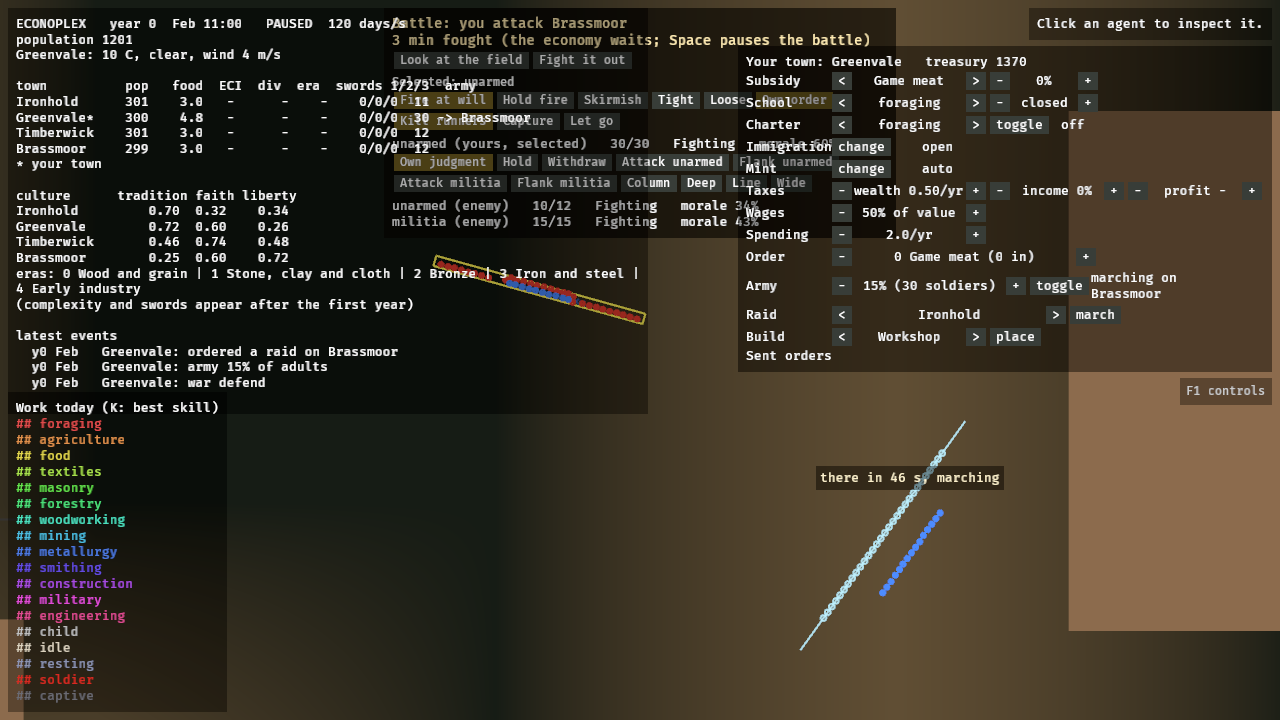
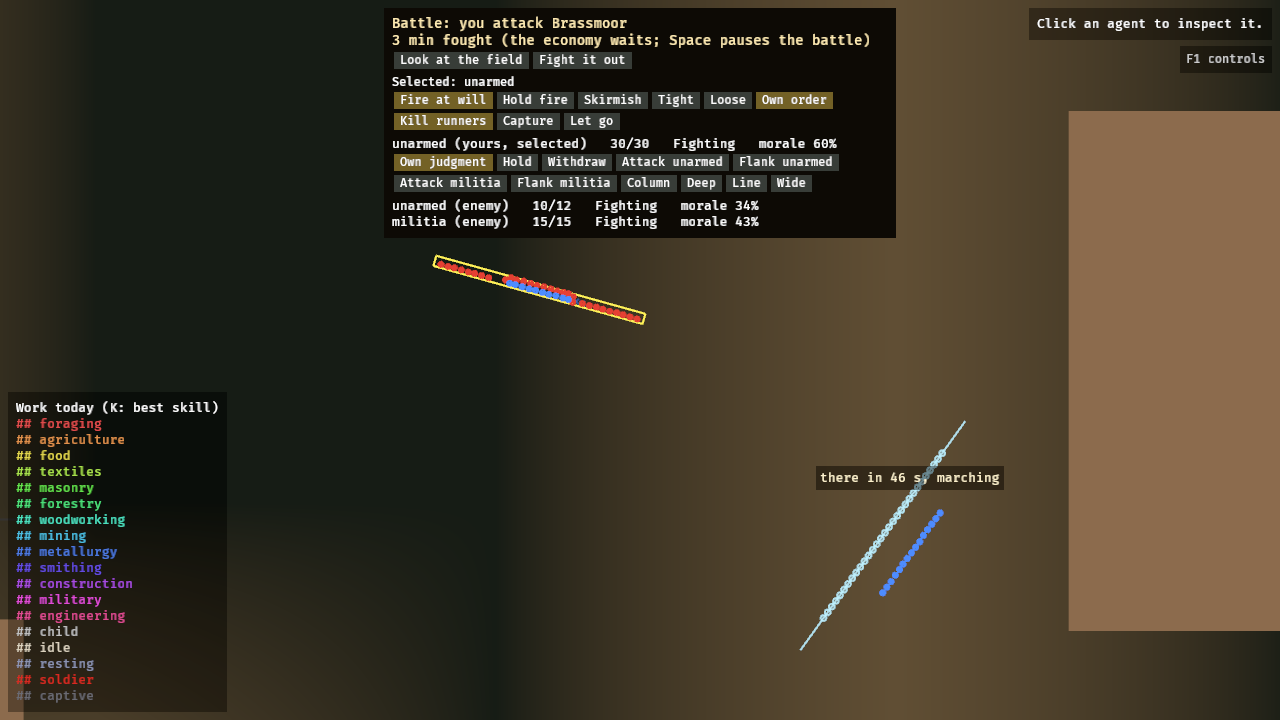
2D battle panel stands alone; overlay discs and legend
While a live battle waits, the 2D client hides the summary, economy and
policy panels; the economy is paused then anyway. The battle panel gets
an opaque background and draws on top, so nothing overlaps it at
1280x720.

The overlay draws each soldier as a larger disc, at least a few pixels
wide. A legend for the overlay colours now sits at the foot of the screen
in both clients.

The 2D screenshots and the 3D overlay screenshot are retaken.

Claude-Session: https://claude.ai/code/session_013bTopQ7tnjs5Etqsq4FhMp

diff --git a/crates/game/src/battle_input.rs b/crates/game/src/battle_input.rs
@@ -265,8 +265,10 @@ pub fn draw_battle_controls(
                 .resolution(6);
         }
     }
-    // The overlay: each soldier on their feet in the colour of their morale,
-    // darker the more tired.
+    // The overlay: each soldier on their feet a disc in the colour of their
+    // morale, darker the more tired, at least a few pixels wide.
+    let px = camera.1.compute_transform().scale.x;
+    let disc = (1.1 * r).max(3.5 * px);
     if controls.overlay && v.on_soldiers() {
         for (men, cond) in v.frame.soldiers.iter().zip(&v.condition) {
             for (m, c) in men.iter().zip(cond) {
@@ -279,23 +281,76 @@ pub fn draw_battle_controls(
                 }
                 let [r_, g_, b_] = rts::condition_colour(*c);
                 let p = at(m.pos());
-                gizmos
-                    .circle_2d(
-                        Isometry2d::from_translation(p),
-                        0.55 * r,
-                        Color::linear_rgb(r_, g_, b_),
-                    )
-                    .resolution(5);
-                gizmos
-                    .circle_2d(
-                        Isometry2d::from_translation(p),
-                        0.3 * r,
-                        Color::linear_rgb(r_, g_, b_),
-                    )
-                    .resolution(4);
+                // Rings close together, to read as a filled disc.
+                for k in 1..=4 {
+                    gizmos
+                        .circle_2d(
+                            Isometry2d::from_translation(p),
+                            disc * k as f32 / 4.0,
+                            Color::linear_rgb(r_, g_, b_),
+                        )
+                        .resolution(8);
+                }
             }
         }
     }
+}
+
+/// What the overlay's colours mean, at the foot of the screen while it is on.
+#[derive(Component)]
+pub struct OverlayLegend;
+
+pub fn spawn_overlay_legend(mut commands: Commands) {
+    let font = TextFont {
+        font_size: FontSize::Px(13.0),
+        ..default()
+    };
+    let rgb = |m: f32, f: f32| {
+        let [r, g, b] = rts::condition_colour(sim_core::battle::Condition::new(m, f));
+        TextColor(Color::linear_rgb(r, g, b))
+    };
+    commands
+        .spawn((
+            Node {
+                position_type: PositionType::Absolute,
+                bottom: Val::Px(8.0),
+                left: Val::Percent(30.0),
+                padding: UiRect::axes(Val::Px(8.0), Val::Px(4.0)),
+                column_gap: Val::Px(10.0),
+                flex_direction: FlexDirection::Row,
+                ..default()
+            },
+            BackgroundColor(Color::srgb(0.05, 0.04, 0.02)),
+            GlobalZIndex(10),
+            Visibility::Hidden,
+            bevy::picking::Pickable::IGNORE,
+            OverlayLegend,
+        ))
+        .with_children(|p| {
+            p.spawn((Text::new("Overlay (O):"), font.clone()));
+            p.spawn((Text::new("## breaking"), font.clone(), rgb(0.05, 0.0)));
+            p.spawn((Text::new("## wavering"), font.clone(), rgb(0.5, 0.0)));
+            p.spawn((Text::new("## steady"), font.clone(), rgb(1.0, 0.0)));
+            p.spawn((
+                Text::new("## steady, worn out"),
+                font.clone(),
+                rgb(1.0, 1.0),
+            ));
+        });
+}
+
+/// Shows the legend while the overlay is on in a live battle.
+pub fn update_overlay_legend(
+    live: Res<LiveBattle>,
+    controls: Res<BattleControls>,
+    mut legend: Single<&mut Visibility, With<OverlayLegend>>,
+) {
+    let on = controls.overlay && live.view.as_ref().is_some_and(|v| v.on_soldiers());
+    legend.set_if_neq(if on {
+        Visibility::Inherited
+    } else {
+        Visibility::Hidden
+    });
 }
 
 /// The text by the pointer: the matchup hint, or the ghost's arrival time.

diff --git a/crates/game3d/src/battle_input.rs b/crates/game3d/src/battle_input.rs
@@ -335,6 +335,9 @@ fn draw_battle_controls(
 fn controls_tip(mut contexts: EguiContexts, live: Res<LiveSim>, controls: Res<BattleControls>) {
     let Some(v) = live.live_battle() else { return };
     let Ok(ctx) = contexts.ctx_mut() else { return };
+    if controls.overlay && v.on_soldiers() {
+        overlay_legend(ctx);
+    }
     let (gesture, ghosts) = ghost_of(&v, &controls);
     if let Gesture::Box(a, b) = gesture {
         let rect = egui::Rect::from_two_pos(egui::pos2(a.0, a.1), egui::pos2(b.0, b.1));
@@ -368,6 +371,38 @@ fn controls_tip(mut contexts: EguiContexts, live: Res<LiveSim>, controls: Res<Ba
         .show(ctx, |ui| {
             egui::Frame::popup(ui.style()).show(ui, |ui| {
                 ui.label(words);
+            });
+        });
+}
+
+/// What the overlay's colours mean, at the foot of the screen.
+fn overlay_legend(ctx: &egui::Context) {
+    let colour = |m: f32, f: f32| {
+        let [r, g, b] = rts::condition_colour(sim_core::battle::Condition::new(m, f));
+        let c = Color::linear_rgb(r, g, b).to_srgba();
+        egui::Color32::from_rgb(
+            (c.red * 255.0) as u8,
+            (c.green * 255.0) as u8,
+            (c.blue * 255.0) as u8,
+        )
+    };
+    egui::Area::new(egui::Id::new("overlay legend"))
+        .anchor(egui::Align2::CENTER_BOTTOM, egui::vec2(0.0, -8.0))
+        .order(egui::Order::Foreground)
+        .interactable(false)
+        .show(ctx, |ui| {
+            egui::Frame::popup(ui.style()).show(ui, |ui| {
+                ui.horizontal(|ui| {
+                    ui.label("Overlay (O):");
+                    for (words, m, f) in [
+                        ("## breaking", 0.05, 0.0),
+                        ("## wavering", 0.5, 0.0),
+                        ("## steady", 1.0, 0.0),
+                        ("## steady, worn out", 1.0, 1.0),
+                    ] {
+                        ui.colored_label(colour(m, f), words);
+                    }
+                });
             });
         });
 }

diff --git a/crates/game/src/live_battle.rs b/crates/game/src/live_battle.rs
@@ -27,7 +27,9 @@
 //! once. Under the title, the squads selected with the mouse
 //! (battle_input.rs) and buttons for their stance: fire at will, hold fire
 //! or skirmish; tight, loose or their own order; and whether they kill,
-//! capture or let go enemies who run.
+//! capture or let go enemies who run. While the battle waits, the summary,
+//! economy and policy panels fold away (`fold_panels`), so nothing lies under
+//! the battle panel.
 
 use crate::battle_input::BattleControls;
 use crate::ui_compat::Interaction;
@@ -245,7 +247,8 @@ pub fn spawn_battle_panel(mut commands: Commands) {
                 padding: UiRect::all(Val::Px(8.0)),
                 ..default()
             },
-            BackgroundColor(Color::srgba(0.05, 0.04, 0.02, 0.85)),
+            BackgroundColor(Color::srgb(0.05, 0.04, 0.02)),
+            GlobalZIndex(10),
             Visibility::Hidden,
             BattleRoot,
         ))
@@ -280,6 +283,25 @@ pub fn spawn_battle_panel(mut commands: Commands) {
                 SquadRows,
             ));
         });
+}
+
+/// While a battle waits, the summary, economy and policy panels fold away
+/// (`hud::FoldsInBattle`), so nothing is drawn under the battle panel; they
+/// come back when it is settled.
+pub fn fold_panels(
+    live: Res<LiveBattle>,
+    mut panels: Query<&mut Node, With<crate::hud::FoldsInBattle>>,
+) {
+    let display = if live.view.is_some() {
+        Display::None
+    } else {
+        Display::Flex
+    };
+    for mut n in &mut panels {
+        if n.display != display {
+            n.display = display;
+        }
+    }
 }
 
 /// Enemy squads still on the field (targets for attack and shoot orders).

diff --git a/crates/game/src/main.rs b/crates/game/src/main.rs
@@ -196,6 +196,7 @@ fn main() {
                 seasons::spawn_night_veil,
                 live_battle::spawn_battle_panel,
                 battle_input::spawn_controls_tip,
+                battle_input::spawn_overlay_legend,
             ),
         )
         .add_systems(
@@ -265,6 +266,8 @@ fn main() {
                 live_battle::draw_live_battle,
                 battle_input::draw_battle_controls.after(live_battle::draw_live_battle),
                 battle_input::update_controls_tip,
+                battle_input::update_overlay_legend,
+                live_battle::fold_panels,
                 live_battle::battle_buttons,
                 live_battle::update_battle_panel.after(live_battle::battle_buttons),
             ),

diff --git a/crates/game/src/hud.rs b/crates/game/src/hud.rs
@@ -25,6 +25,12 @@ pub struct LeftColumn;
 #[derive(Component)]
 pub struct RightColumn;
 
+/// Panels folded away while a live battle waits (the economy holds still
+/// then): the left-hand column and the policy panel, so the battle panel
+/// has the top of the screen to itself (live_battle.rs `fold_panels`).
+#[derive(Component)]
+pub struct FoldsInBattle;
+
 /// The controls help, one line until `F1` opens it.
 #[derive(Component)]
 pub struct HelpText;
@@ -85,6 +91,7 @@ pub fn spawn_hud(mut commands: Commands, db: Res<Db>) {
                 ..default()
             },
             LeftColumn,
+            FoldsInBattle,
         ))
         .with_children(|c| {
             c.spawn((

diff --git a/crates/game/src/policy_ui.rs b/crates/game/src/policy_ui.rs
@@ -206,6 +206,7 @@ pub fn spawn_policy_panel(
                 ..default()
             },
             BackgroundColor(Color::srgba(0.0, 0.0, 0.0, 0.7)),
+            crate::hud::FoldsInBattle,
         ))
         .with_children(|p| {
             p.spawn((Text::new(""), font.clone(), Field::Title));

diff --git a/docs/design/client-parity.md b/docs/design/client-parity.md
@@ -86,7 +86,7 @@ the end of this note).
 | Squad orders in a live battle (own judgment, hold, withdraw, or attack or shoot at a named enemy squad), fighters left, squad state, "Look at the field", "Fight it out" | battles.rs (`battle_panel`) | same (group 4): a battle panel at the top, one row per squad with its fighters left, state and morale, and order buttons for the player's fighting squads | | |
 | Live battles on the soldier model (`battle.live_model`): each figure stands where its soldier stands, faces their way, lies where they fell, greys when they run | battles.rs (`pose_soldiers`) | same: zoomed in (`SOLDIERS_BELOW`), every soldier is a dot where they stand, the fallen a small cross, runners grey and blinking; zoomed out, a block per squad at its soldiers' centre (live_battle.rs, battles.rs `draw_soldiers`) | | |
 | On the soldier model, the battle panel also offers "Flank" a named enemy squad (`LiveView::flank`: moves round its side, then attack) and four fronts to re-form to where it stands (column, deep, line, wide: `LiveView::reform`); hidden on the squad model | battles.rs (`battle_panel`) | same: the same buttons in each squad's row (live_battle.rs `choices`, `chosen`) | | |
-| RTS battle controls, build A: click, shift-click and box selection, control groups (Ctrl+1–9, 1–9, twice to look), right-click to move or attack, right-drag to lay out the line (`group_line` for several), double right-click to run, group moves keeping formation, the ghost line with its arrival time, stance hotkeys and buttons, pursuit (kill, capture, let go), matchup hints on hovering an enemy, the morale and fatigue overlay (`O`), orders while paused; the shared logic is `battle::rts` | battle_input.rs (picking a ray onto the terrain; egui tip and F1 window), battles.rs (`battle_panel` stance buttons, overlay colours in `pose_soldiers`) | same: battle_input.rs (gizmos for the selection, box and ghost; a tip by the pointer), live_battle.rs (stance buttons), F1 help | | |
+| RTS battle controls, build A: click, shift-click and box selection, control groups (Ctrl+1–9, 1–9, twice to look), right-click to move or attack, right-drag to lay out the line (`group_line` for several), double right-click to run, group moves keeping formation, the ghost line with its arrival time, stance hotkeys and buttons, pursuit (kill, capture, let go), matchup hints on hovering an enemy, the morale and fatigue overlay (`O`), orders while paused; the shared logic is `battle::rts` | battle_input.rs (picking a ray onto the terrain; egui tip and F1 window), battles.rs (`battle_panel` stance buttons, overlay colours in `pose_soldiers`) | same: battle_input.rs (gizmos for the selection, box and ghost; a tip by the pointer), live_battle.rs (stance buttons; the summary, economy and policy panels fold away while a battle waits), an overlay legend, F1 help | | |
 | RTS battle controls, build B: queued waypoints, deployment before the battle, town doctrine | not yet | not yet | M | Build B, in both clients. |
 | Armies on the move: soldiers walk to their squad's goal in dark red, captives apart | crowd.rs | partial (group 1): soldiers are red and captives grey; no flag at the squad's goal yet | S | Draw a squad's goal as a small flag. |
 | Battle replays beside the defending town | battles.rs | same (blocks per squad, 2D battles.rs) | | |

diff --git a/docs/design/battle-per-soldier.md b/docs/design/battle-per-soldier.md
@@ -663,7 +663,10 @@ turns the mouse into field metres and draws.
 | Space | pauses the battle; orders still go in |
 
 Pursuit (kill, capture, let go) is in the battle panel only, beside the
-stance buttons, which show the selection's stance.
+stance buttons, which show the selection's stance. With the overlay on, a
+legend at the foot of the screen says what the colours mean. In the 2D
+client the summary, economy and policy panels fold away while a battle
+waits, so nothing lies under the battle panel.
 
 **Conflicts with the camera and other keys.** The battle reads input
 before anything else (`PreUpdate`) and clears the presses it takes. Without
